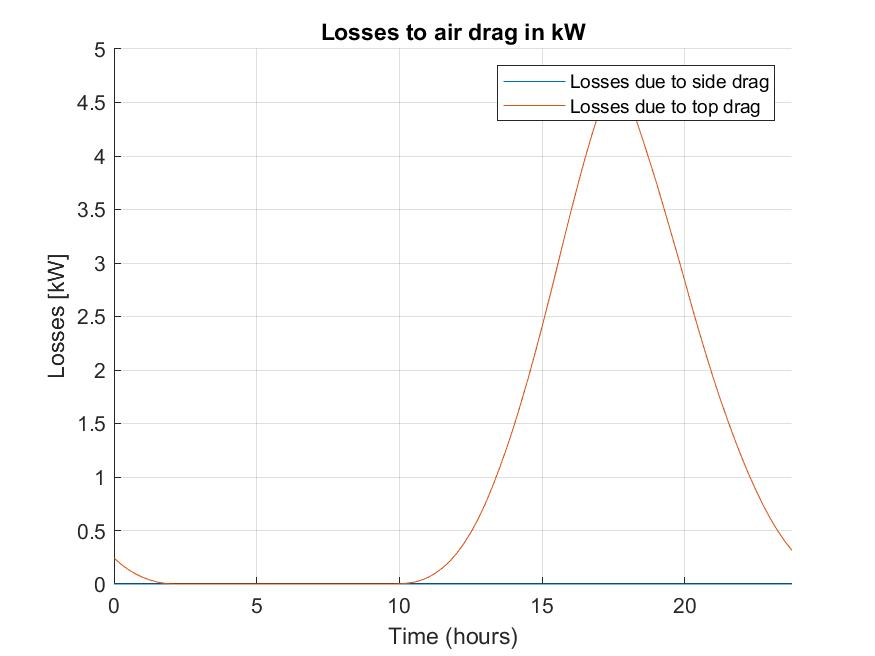
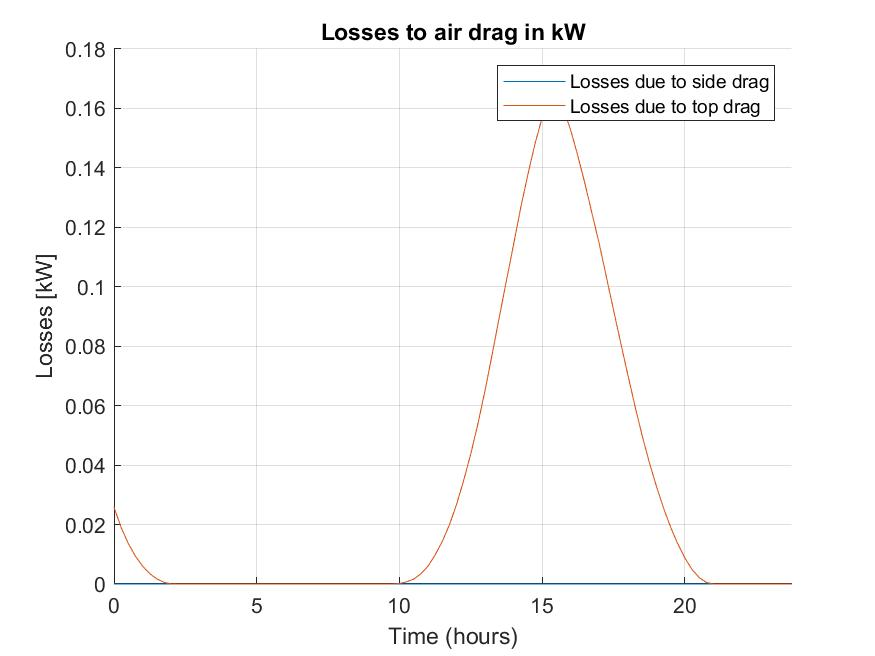
fixed data set to use kWh instead of Wh

diff --git a/loadConstants.m b/loadConstants.m
@@ -10,13 +10,13 @@ time_start = 0;                                                             %Sta
 time_step = 0.25;                                                           %Time step, every 15 minutes
 time_end = 23.75;                                                              %End time, after 24 hours
 flywheel_in = 0;                                                            %Starting inflow energy
-flywheel_angular =  6.134865260318628e+03;                                  %Starting angular velocity flywheel
+flywheel_angular = 200;                                  %Starting angular velocity flywheel
 
 r_flywheel = 0.85;                                                          %Radius of the flywheel
 d_flywheel = 0.40;                                                          %Thickness of the flywheel
 rho_flywheel = 1440;                                                        %Density of the material of which the flywheel is made (solid)
 rho_air = 1.2041;                                                           %Density of air
 c_lin = 1.17;                                                               %linear air drag coefficient
-c_ang = 0.01;                                                               %angular drag coefficient
+c_ang = 1;                                                               %angular drag coefficient
 A_sides = 2 * pi * r_flywheel * d_flywheel;
 A_top = pi * r_flywheel^2;                                                   %Drag of the top of the main cylinder

diff --git a/main.m b/main.m
@@ -11,7 +11,7 @@ loadConstants;
 % Calculations %
 %%%%%%%%%%%%%%%%
 %%% Read CSV data
-table_energy = readmatrix('datasets/CSVfiles/Quartile2.csv');
+table_energy = readmatrix('datasets/CSVfiles/Quartile2.csv')/1000;
 
 %%% Setting up tables
 Steps = time_end/time_step;                                                 %Amount of steps

diff --git a/plotGraphs.m b/plotGraphs.m
@@ -18,7 +18,7 @@ if generate_fig1 == true
     figure(1);grid on
     figure(1); plot(t_var,E_inflow);
 
-    figure(1); ylabel('Inflow energy (kWh)')
+    figure(1); ylabel('Inflow energy (kW)')
     figure(1); legend({'Inflow energy flywheel'}, 'Location','northeast')
 
     figure(1); xlim([0 time_end]);
